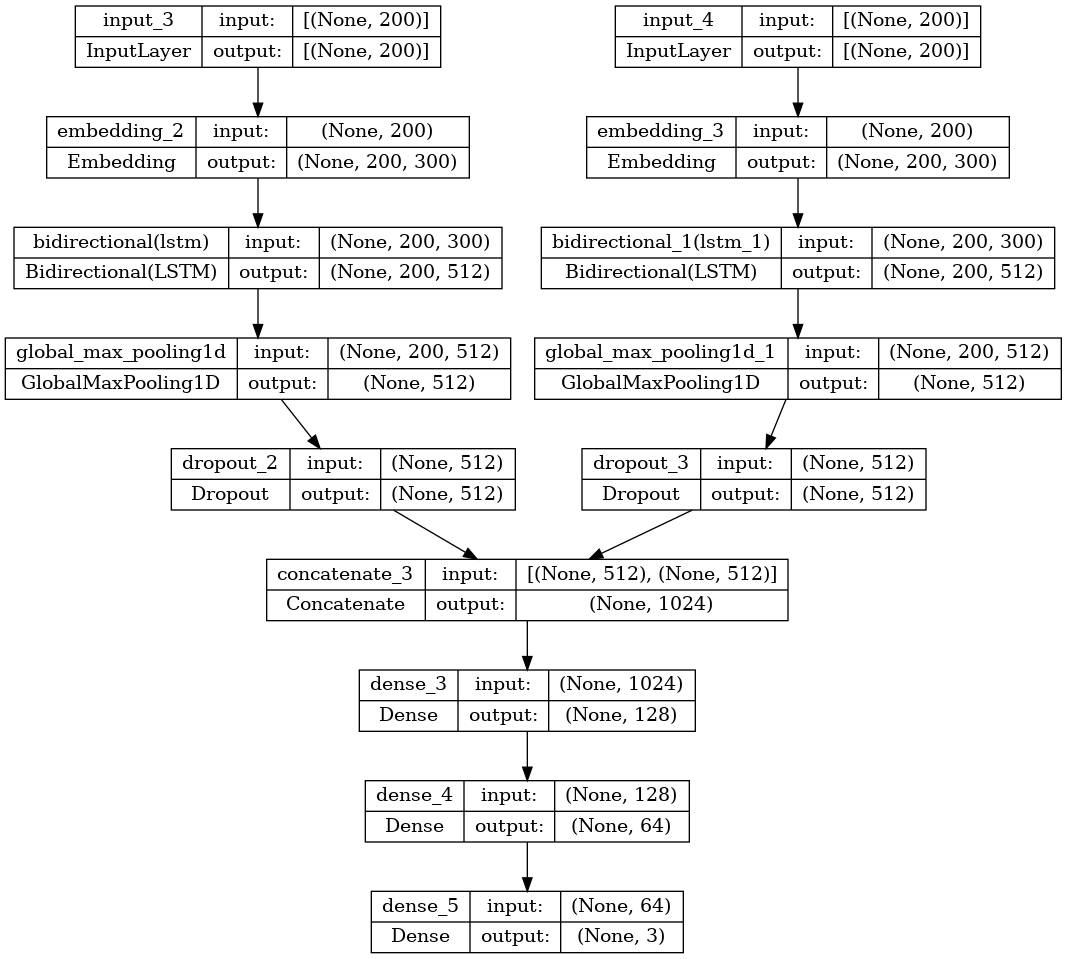
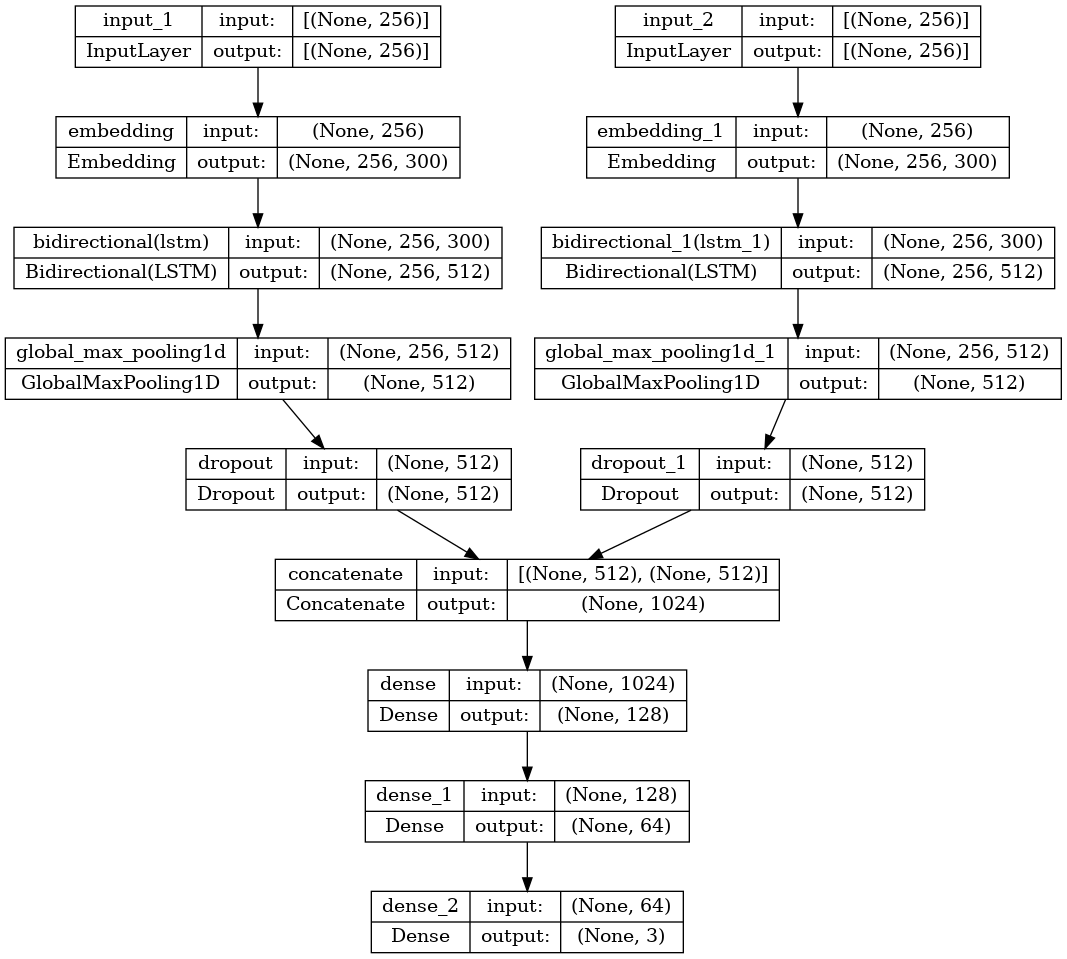
update glove side

diff --git a/glove/sentimentModel.py b/glove/sentimentModel.py
@@ -32,42 +32,42 @@ def startLearning():
   #   [np.array(title_test_ids), np.array(text_test_ids)], 
   #   np.array(test_labels)
   # )
-  # 
-  print('TRAINING USING CNN MODEL.......................')
-  cnn = CNN(
-    title_train_ids,
-    text_train_ids,
-    train_labels,
-    title_val_ids,
-    text_val_ids,
-    val_labels,
-    vocab_size,
-    emb_mat
-  )
-
-  cnn_model = cnn.trainModel()
-  cnn.testModel(
-    [np.array(title_test_ids), np.array(text_test_ids)], 
-    np.array(test_labels)
-  )
+  #
+  # print('TRAINING USING CNN MODEL.......................')
+  # cnn = CNN(
+  #   title_train_ids,
+  #   text_train_ids,
+  #   train_labels,
+  #   title_val_ids,
+  #   text_val_ids,
+  #   val_labels,
+  #   vocab_size,
+  #   emb_mat
+  # )
+  #
+  # cnn_model = cnn.trainModel()
+  # cnn.testModel(
+  #   [np.array(title_test_ids), np.array(text_test_ids)], 
+  #   np.array(test_labels)
+  # )
   
-  print('TRAINING USING BiLSTM MODEL......................')
-  bilstm = BiLSTM(
-    title_train_ids,
-    text_train_ids,
-    train_labels,
-    title_val_ids,
-    text_val_ids,
-    val_labels,
-    vocab_size,
-    emb_mat
-  )
-
-  bilstm_model = bilstm.trainModel()
-  bilstm.testModel(
-    [np.array(title_test_ids), np.array(text_test_ids)], 
-    np.array(test_labels)
-  )
+  # print('TRAINING USING BiLSTM MODEL......................')
+  # bilstm = BiLSTM(
+  #   title_train_ids,
+  #   text_train_ids,
+  #   train_labels,
+  #   title_val_ids,
+  #   text_val_ids,
+  #   val_labels,
+  #   vocab_size,
+  #   emb_mat
+  # )
+  #
+  # bilstm_model = bilstm.trainModel()
+  # bilstm.testModel(
+  #   [np.array(title_test_ids), np.array(text_test_ids)], 
+  #   np.array(test_labels)
+  # )
   
   print('TRAINING USING ENSEMBLE CNN + BiLSTM MODEL.................')
   cnn_bilstm = En_CNN_BILSTM(
@@ -78,8 +78,6 @@ def startLearning():
     text_val_ids,
     val_labels,
     vocab_size,
-    bilstm_model,
-    cnn_model
   )
 
   cnn_bilstm.trainModel()

diff --git a/glove/models/Ensemble_CNN_BILSTM.py b/glove/models/Ensemble_CNN_BILSTM.py
@@ -21,8 +21,6 @@ class CNN_BILSTM:
             val_text,
             val_rating,
             vocab_size,
-            bilstm,
-            cnn
     ):
         self.title_input = None
         self.text_input = None
@@ -33,8 +31,6 @@ class CNN_BILSTM:
         self.val_text = val_text
         self.val_rating = val_rating
         self.vocab_size = vocab_size
-        self.bilstm = bilstm
-        self.cnn = cnn
         self.output = self.getOutput()
         self.model = self.buildModel()
 

diff --git a/glove/constants.py b/glove/constants.py
@@ -1,10 +1,10 @@
 PATH = 'resources/'
-MAX_LEN = 200
+MAX_LEN = 256
 EPOCH = 1000
 BATCH_SIZE = 8
 EMBEDDING_DIM = 300
 TRAINABLE = True
-STOP_PATIENCE=25
+STOP_PATIENCE=7
 
 # FILES
 CNN_MODEL = 'CNN_MODEL.keras'
